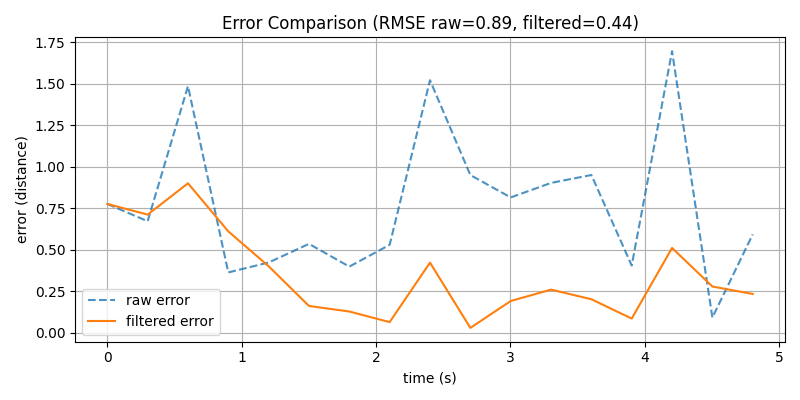
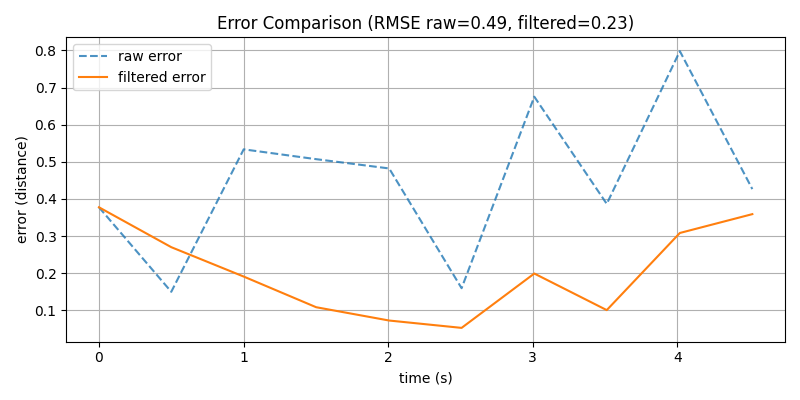
refine appearance

diff --git a/scripts/plot.py b/scripts/plot.py
@@ -60,9 +60,9 @@ def main():
     # =========================
     plt.figure(figsize=(8, 4))
 
-    plt.plot(time, df_truth["x"], label="truth", linewidth=2)
-    plt.plot(time, df_raw["x"], label="raw", linestyle="--", alpha=0.8) # メモ：ここのalphaは見た目の透明度
-    plt.plot(time, df_filtered["x"], label="filtered", linewidth=2)
+    plt.plot(time, df_truth["x"], label="truth")
+    plt.plot(time, df_raw["x"], label="raw", linestyle="--", alpha=0.8)
+    plt.plot(time, df_filtered["x"], label="filtered")
 
     plt.xlabel("time (s)")
     plt.ylabel("position x")

diff --git a/src/config/config.cpp b/src/config/config.cpp
@@ -50,6 +50,9 @@ void validateConfig(const Config& config) {
     if (config.sensor_interval_ms <= 0) {
         throw std::runtime_error("interval must be > 0");
     }
+    if (config.noise_stddev > 5.0) {
+    std::cout << "[WARN] noise is large, result may be unstable" << std::endl;
+    }
     if (config.alpha < 0.0 || config.alpha > 1.0) {
         throw std::runtime_error("alpha must be in [0, 1]");
     }

diff --git a/README.md b/README.md
@@ -100,9 +100,9 @@ RMSE = sqrt(mean((pred - truth)^2))
 
 ```
 === RMSE Evaluation ===
-Raw        : 0.89
-Filtered   : 0.44
-Improvement: 50.7%
+Raw        : 0.489
+Filtered   : 0.233
+Improvement: 52.2%
 ```
 
 👉 EMAにより約50%の精度改善を確認
